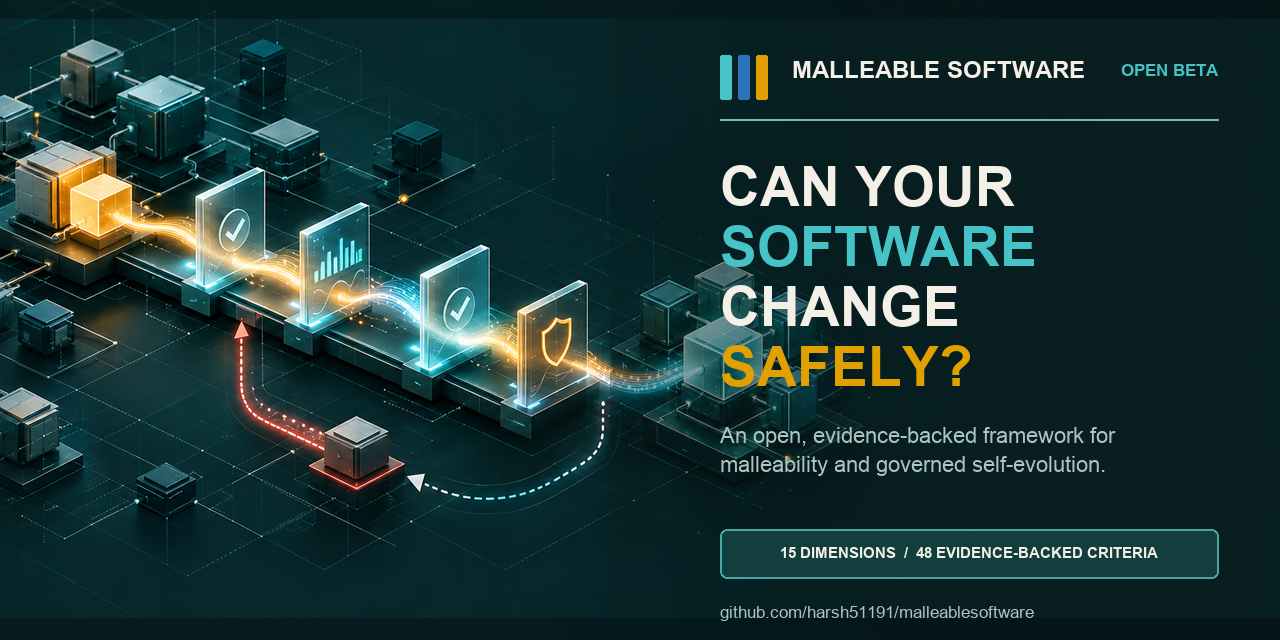
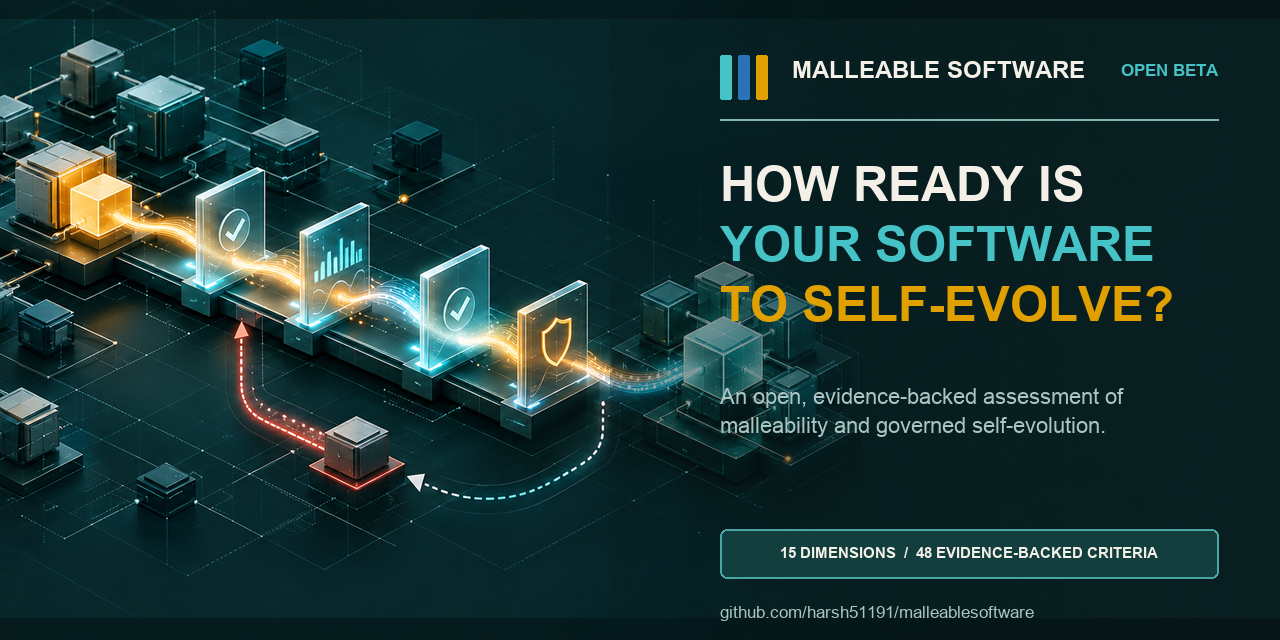
Refine self-evolution readiness message

Changed region(s): [[0.5625, 0.25, 0.9375, 0.75]]

diff --git a/README.md b/README.md
@@ -1,6 +1,6 @@
 # Malleability and Self-Evolution Readiness
 
-![Malleable Software: Can your software change safely?](assets/malleable-software-social-preview.png)
+![Malleable Software: How ready is your software to self-evolve?](assets/malleable-software-social-preview.png)
 
 An open, evidence-backed framework and agent skill for assessing whether a software product can absorb governed change and safely improve from evidence.
 
